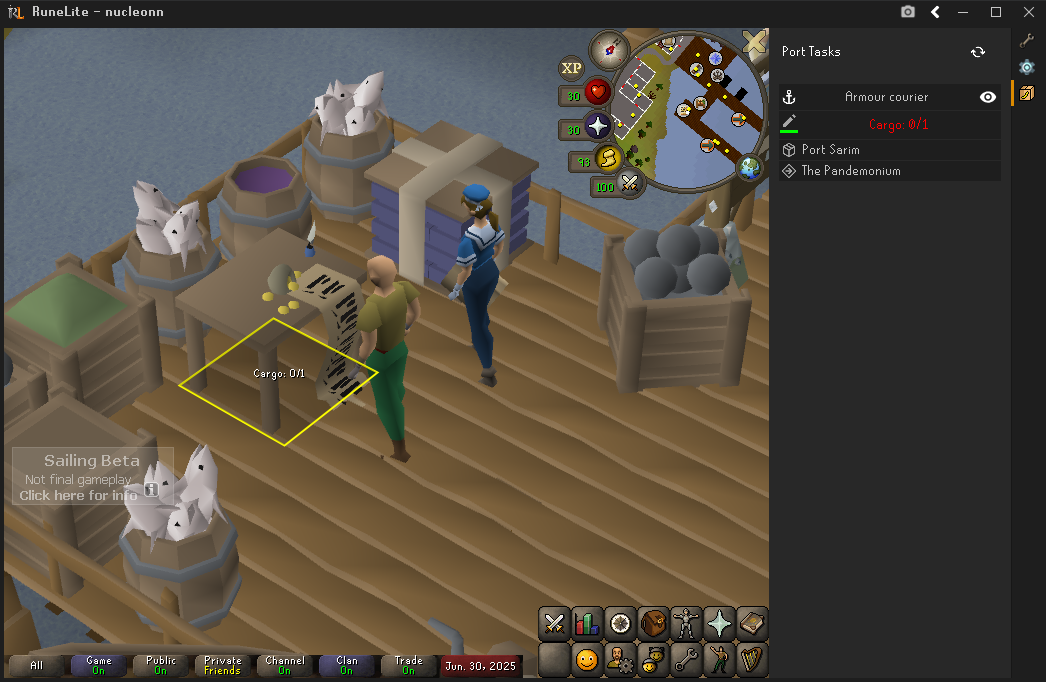
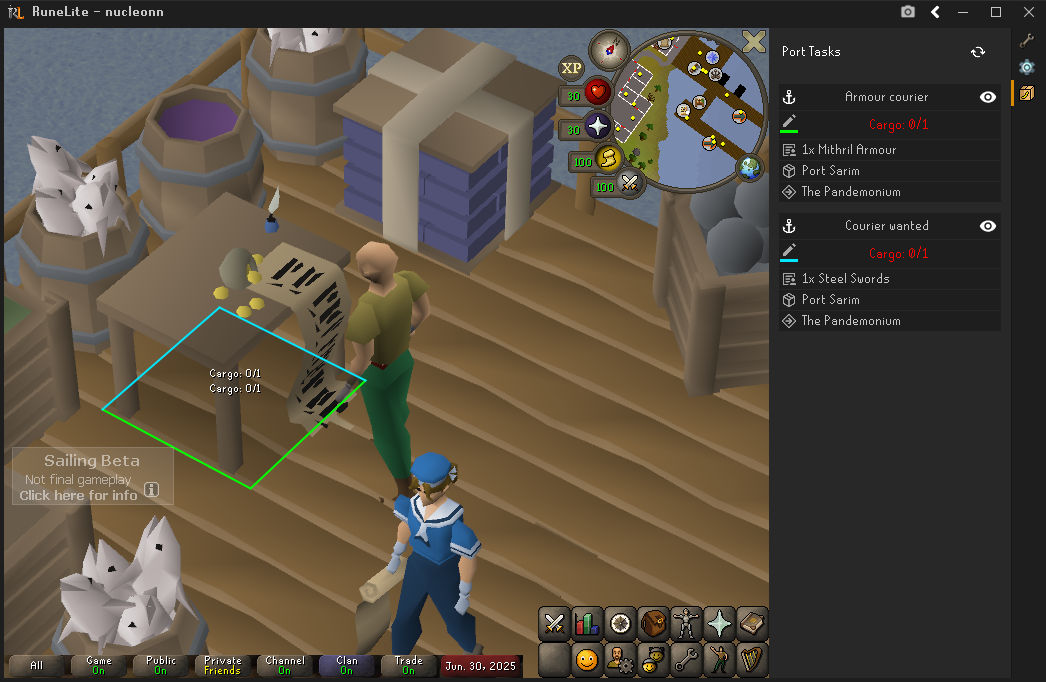
Update docs with new images

diff --git a/README.md b/README.md
@@ -2,11 +2,11 @@
 
 Tired of getting lost between ports? With support for over 70 courier tasks in the Sailing Beta, delivering pirate looty in the high seas of Old School RuneScape has never been easier.
 
-Hey, Forgetting Cargo? This plugin automatically tracks your current Port Tasks!
+This plugin automatically tracks your current Port Tasks!
 
 ![Sidebar Panel](docs/plugin_panel.png)
 
-We understand you can't always look at the panel, so this plugin also helps you find the ledgers, they are always hiding.
+We understand you can't always look at the panel, so this plugin also helps you find the ledgers. <br>Port Tasks can share ledgers, so we show that too!
 
 ![Ledger Overlays1](docs/ledger_cargo_overlay.png) ![Ledger Overlays2](docs/ledger_delivery_overlay.png)
 
